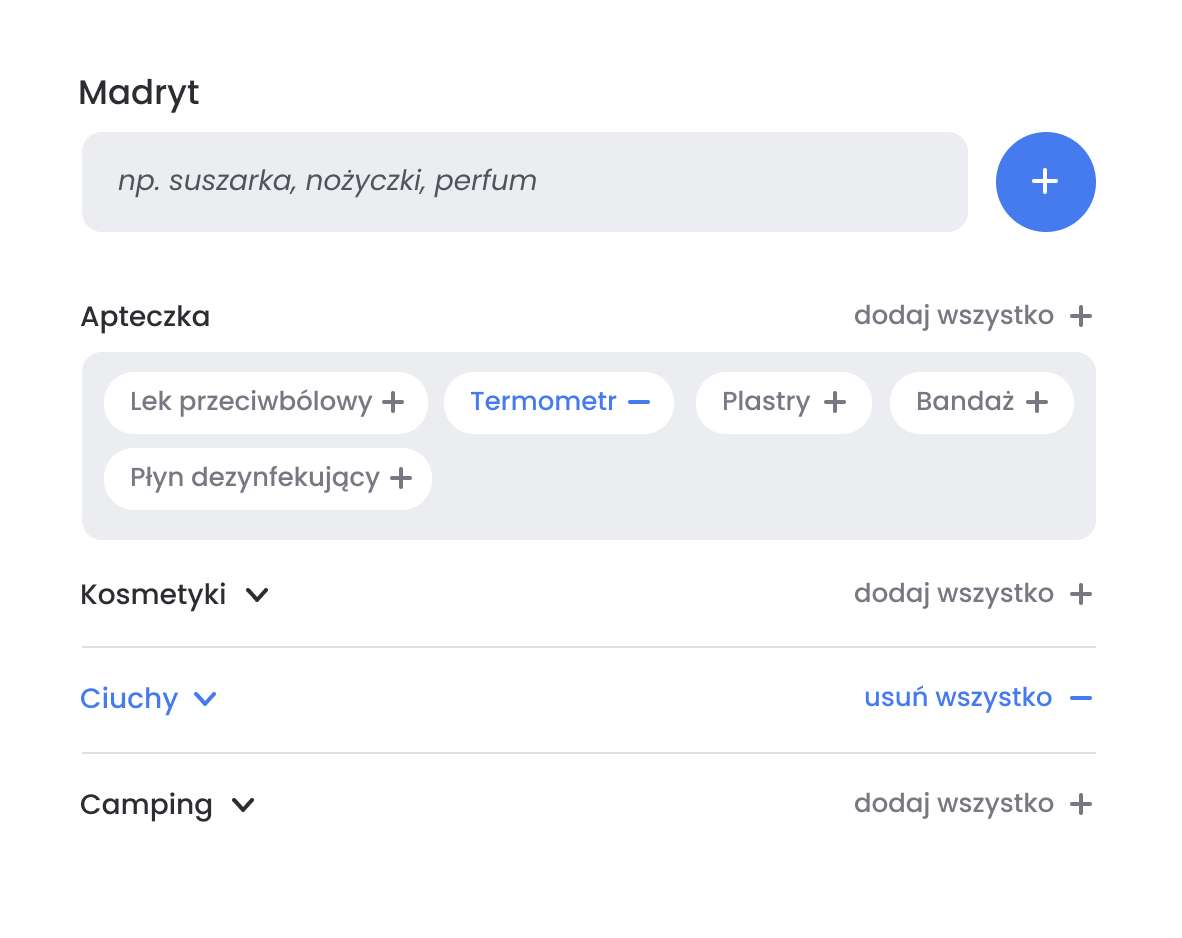
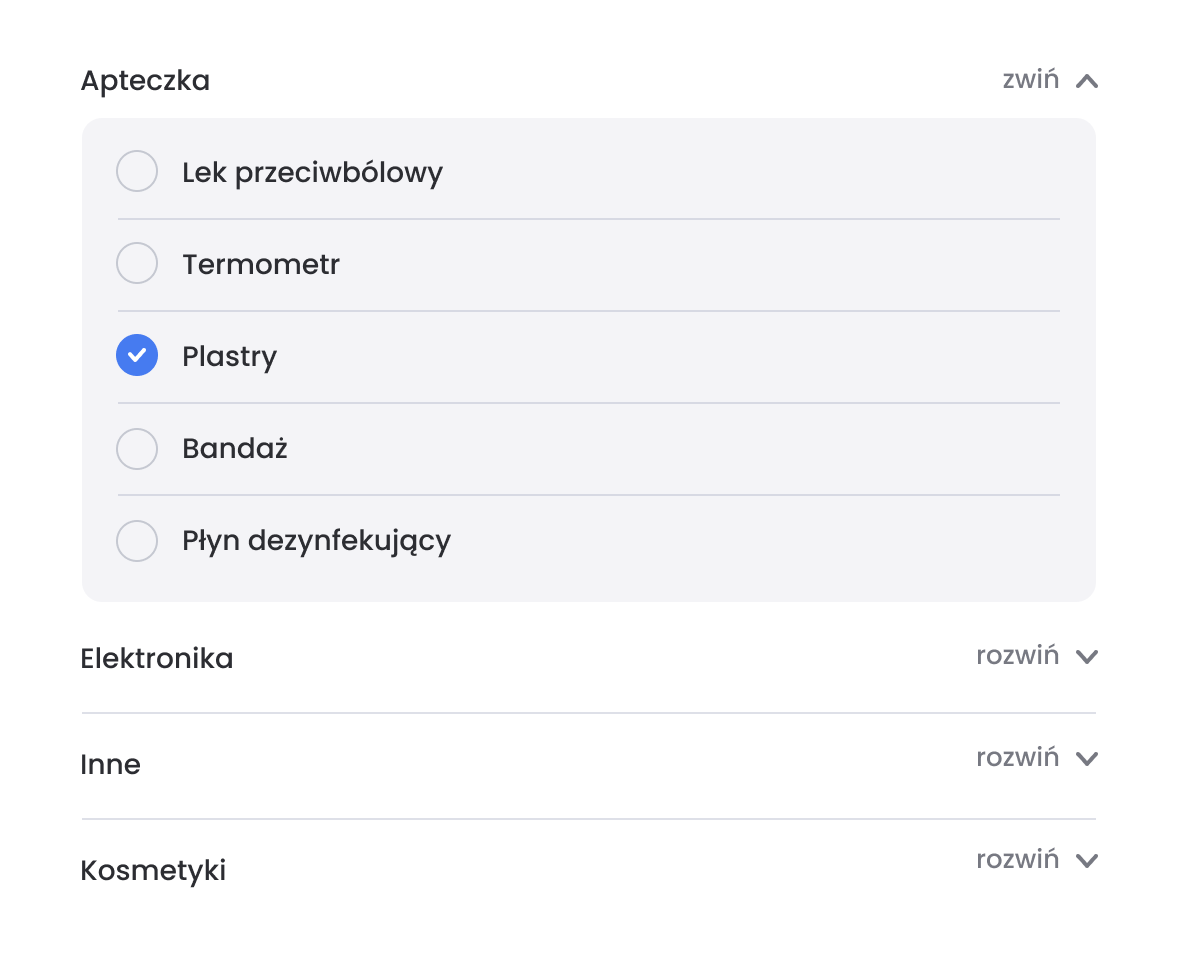
Change UI and images

diff --git a/src/components/application/modals/CreateList.tsx b/src/components/application/modals/CreateList.tsx
@@ -29,6 +29,7 @@ import ArrowRight from "../icons/arrowRight"
 import SampleProvider from "@/context/SampleListContext"
 import ModalLoading from "@/components/ui/ModalLoading"
 import ModalSuccess from "@/components/ui/ModalSuccess"
+import ArrowDown from "../icons/arrowDown"
 
 export default function CreateList({ duplicate, editList }: TDuplicatProps) {
     const initialTitle = editList ? editList.name : ""
@@ -204,28 +205,47 @@ export default function CreateList({ duplicate, editList }: TDuplicatProps) {
                 )}
                 {!duplicate && !editList && <Sample />}
                 {!isCreateSample && (
-                    <button
-                        type="submit"
-                        className={`flex justify-center items-center w-full btn btn-big btn-primary ${
-                            isSuccess && "btn-green"
+                    <div
+                        className={`flex gap-3 animated overflow-hidden ${
+                            !duplicate && !editList ? "justify-between" : ""
+                        } ${
+                            title ? "max-h-20 opacity-100" : "max-h-0 opacity-0"
                         }`}
-                        disabled={titleIsEmpty}
                     >
-                        {isPending ? (
-                            <div className="loader small"></div>
-                        ) : isSuccess ? (
-                            "Dodano"
-                        ) : duplicate ? (
-                            "Duplikuj listę"
-                        ) : editList ? (
-                            "Zapisz"
-                        ) : (
-                            <>
-                                Stwórz pustą listę
-                                <ArrowRight className="ml-2" />
-                            </>
+                        {!duplicate && !editList && (
+                            <button
+                                type="button"
+                                className="btn btn-big btn-default"
+                                onClick={() => setIsCreateSample(true)}
+                                disabled={titleIsEmpty}
+                            >
+                                Przejrzyj gotowe listy
+                                <ArrowDown className="ml-2" />
+                            </button>
                         )}
-                    </button>
+                        <button
+                            type="submit"
+                            className={`flex justify-center items-center btn btn-big btn-primary ${
+                                duplicate || editList ? "w-full" : ""
+                            } ${isSuccess && "btn-green"}`}
+                            disabled={titleIsEmpty}
+                        >
+                            {isPending ? (
+                                <div className="loader small"></div>
+                            ) : isSuccess ? (
+                                "Dodano"
+                            ) : duplicate ? (
+                                "Duplikuj listę"
+                            ) : editList ? (
+                                "Zapisz"
+                            ) : (
+                                <>
+                                    Stwórz pustą listę
+                                    <ArrowRight className="ml-2" />
+                                </>
+                            )}
+                        </button>
+                    </div>
                 )}
                 {isError && (
                     <div className="text-red-600 text-sm mt-2 text-center">

diff --git a/src/components/application/modals/sampleLists/Sample.tsx b/src/components/application/modals/sampleLists/Sample.tsx
@@ -42,21 +42,6 @@ export default function Sample() {
                 <SampleOn />
             </>
         )
-
-    return (
-        <>
-            <button
-                type="button"
-                className="btn btn-big btn-default w-full"
-                onClick={() => setIsCreateSample(true)}
-                disabled={titleIsEmpty}
-            >
-                Przejrzyj gotowe listy
-                <ArrowDown className="ml-2" />
-            </button>
-            <p className="text-center my-3">lub</p>
-        </>
-    )
 }
 
 const SampleOn = () => {
@@ -125,37 +110,38 @@ const SampleOn = () => {
             ) : (
                 <>
                     <SampleTypes data={sampleLists} />
-
-                    <Button
-                        type="button"
-                        className="btn btn-big btn-default w-full justify-center mt-3"
-                        isDisabled={importedList.id == 0 || isPending}
-                        onClick={() => setCustomList(true)}
+                    <div
+                        className={`flex gap-3 justify-between pt-3 animated overflow-hidden ${
+                            importedList.id !== 0
+                                ? "max-h-20 opacity-100"
+                                : "max-h-0 opacity-0"
+                        }`}
                     >
-                        Dostosuj wybraną listę
-                        <ArrowDown className="ml-2" />
-                    </Button>
-                    <p className="text-center my-3">lub</p>
-                    <Button
-                        className="btn btn-big btn-primary w-full justify-center"
-                        type="submit"
-                        isLoading={isPending}
-                        isDisabled={importedList.id == 0}
-                    >
-                        {isPending ? (
-                            "Tworzenie listy"
-                        ) : customList ? (
-                            <>
-                                Stwórz listę
-                                <ArrowRight className="ml-2" />
-                            </>
-                        ) : (
-                            <>
-                                Stwórz listę
-                                <ArrowRight className="ml-2" />
-                            </>
-                        )}
-                    </Button>
+                        <Button
+                            type="button"
+                            className="btn btn-big btn-default justify-center"
+                            isDisabled={importedList.id == 0 || isPending}
+                            onClick={() => setCustomList(true)}
+                        >
+                            Dostosuj wybraną listę
+                            <ArrowDown className="ml-2" />
+                        </Button>
+                        <Button
+                            className="btn btn-big btn-primary justify-center"
+                            type="submit"
+                            isLoading={isPending}
+                            isDisabled={importedList.id == 0}
+                        >
+                            {isPending ? (
+                                "Tworzenie listy"
+                            ) : (
+                                <>
+                                    Stwórz listę
+                                    <ArrowRight className="ml-2" />
+                                </>
+                            )}
+                        </Button>
+                    </div>
                 </>
             )}
         </>

diff --git a/src/components/application/modals/Modal.tsx b/src/components/application/modals/Modal.tsx
@@ -48,7 +48,7 @@ export default function Modal() {
                 >
                     ESC
                 </div>
-                <div className="modal bg-white rounded-xl shadow-2xl p-5 mx-3 max-h-[98%] sm:rounded-3xl sm:px-9 sm:pt-8 sm:pb-10">
+                <div className="modal bg-white rounded-xl shadow-2xl p-7 mx-3 max-h-[98%] sm:rounded-3xl sm:px-9 sm:pt-8 sm:pb-10">
                     {modalContent}
                 </div>
             </div>
